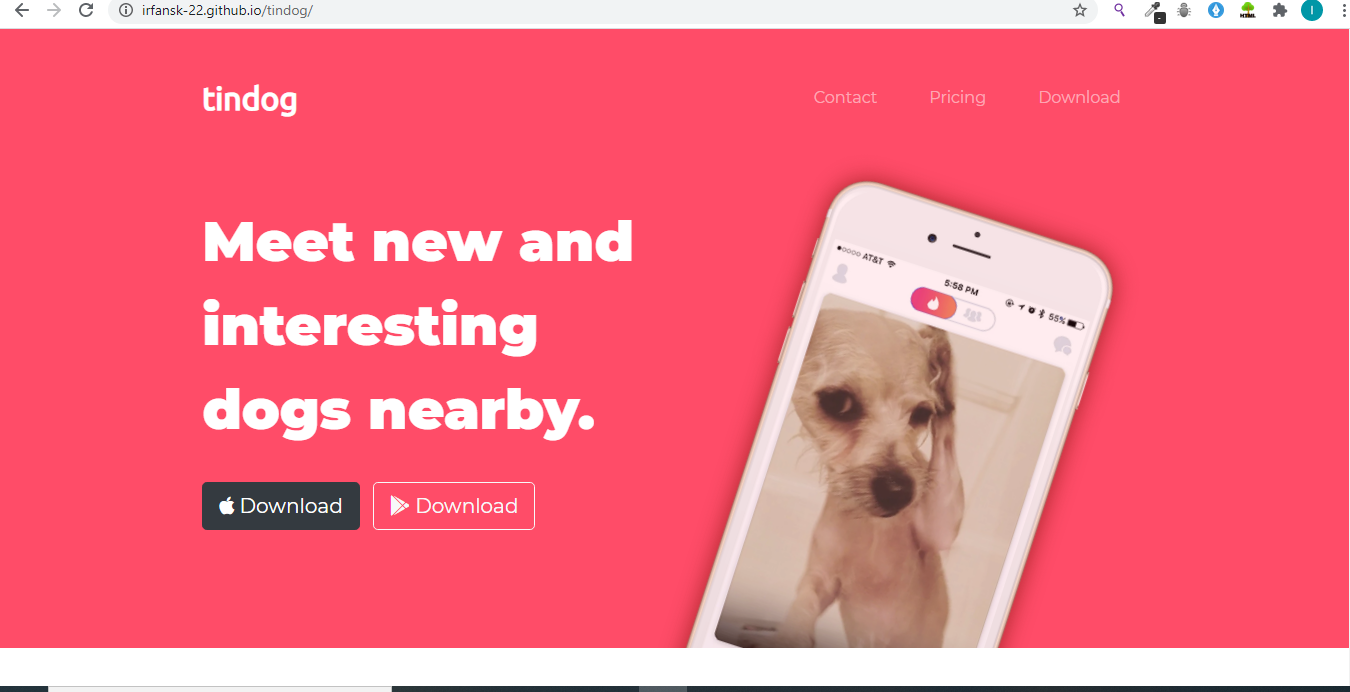
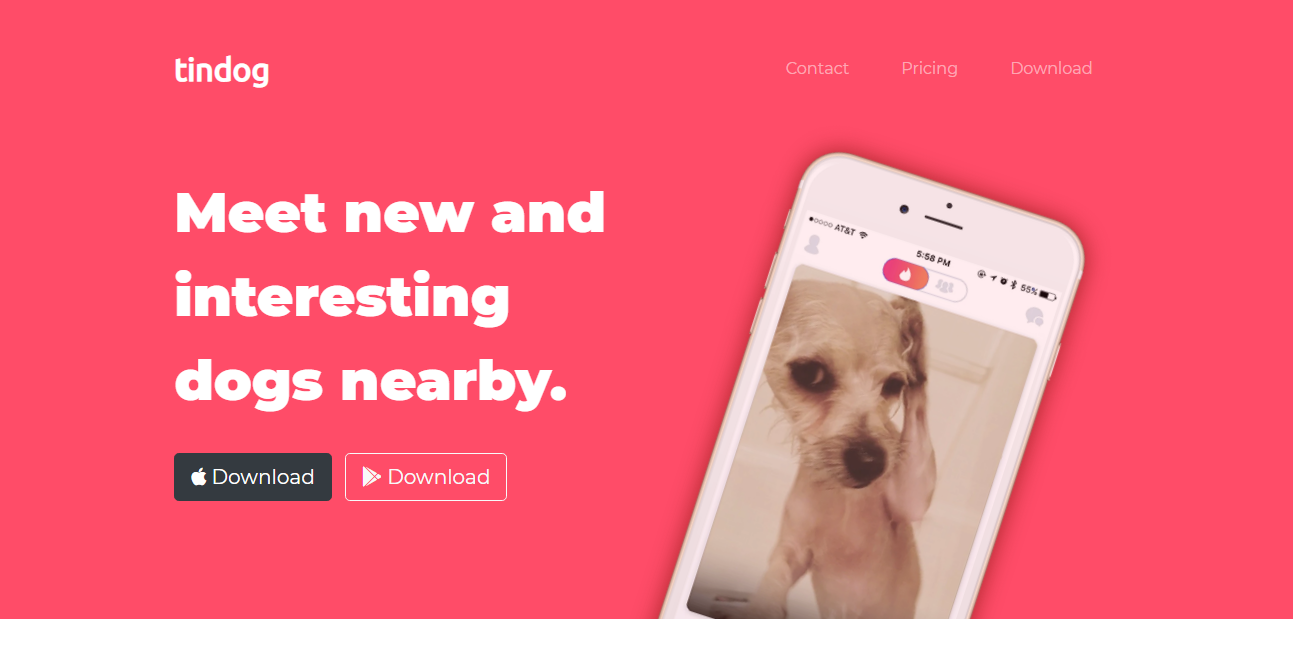
updated Readme file

diff --git a/README.md b/README.md
@@ -1,4 +1,4 @@
-![tindog website landing page](https://ibb.co/cJmzqp6)
+![tindog website landing page](https://github.com/irfansk-22/tindog/blob/master/images/home.png)
 
 # tindog
 TinDog is a beautiful start up design, built while coding along Angela Yu (my udemy instructor).  
